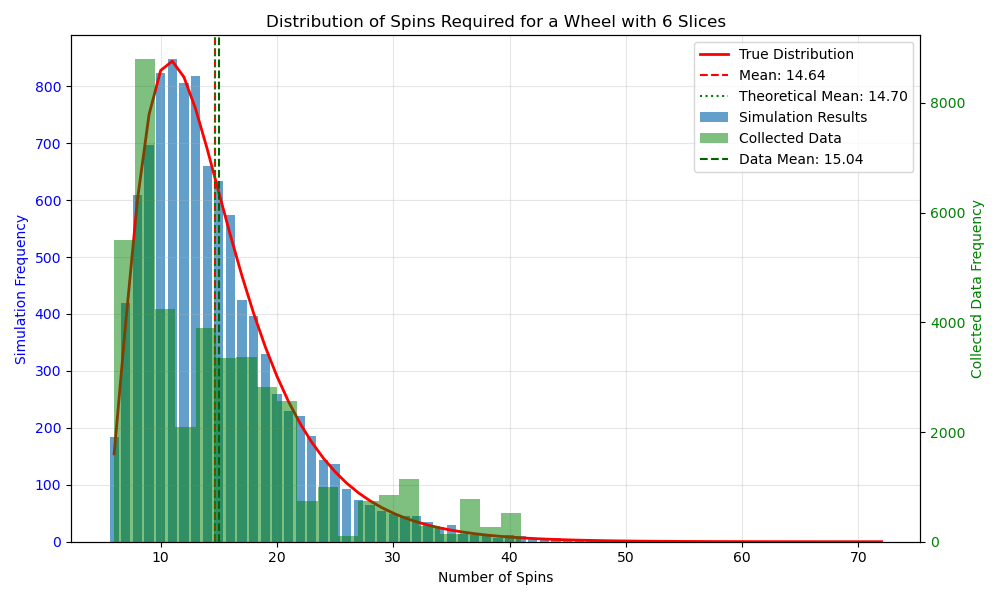
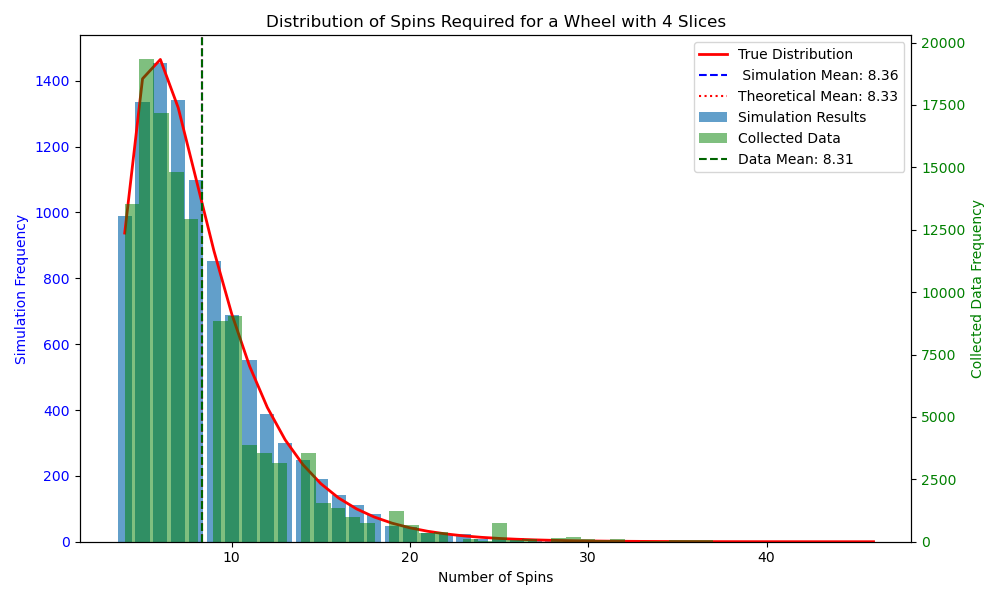
finished figures and incorporated Nikhil's feedback

diff --git a/_posts/2025-03-29-Collecting-Ducks.md b/_posts/2025-03-29-Collecting-Ducks.md
@@ -7,52 +7,68 @@ usemathjax: true
 
 Written by [Alex Cohen](https://www.linkedin.com/in/alexander-e-cohen/) and [Nikki Gupta](https://www.linkedin.com/in/nikhil-z-gupta-703271175/).
 
-One of the iconic parts of APS is the Physical Review journal ducks. 
-During the career fair, APS has a spinning wheel that gives you one of 12 unique ducks, themed after different Physical Review journals.
+One of the iconic parts of the APS Global Physics Summit is the chance to win a *Physical Review* journal duck. 
+At the career fair, APS hosts the duck giveaway, where attendees spin a wheel to win one of 12 unique ducks, each themed after a different *Physical Review* journals.
 
 <p align="center">
   <img src="{{ site.baseurl }}/assets/images/duck_wheel.png" alt="Duck Wheel" width="600"/>
+  <br>
+  <em>Duck wheel (left) and close-up of the best duck (right).</em>
 </p>
 
 On [their instagram page](https://www.instagram.com/aps.physics/reel/DHUmrSKiLde/), APS presented us with a challenge: “Can you collect ‘em all?”. 
-And that is exactly what we sought to do. 
-However, there were so many interesting talks going on at APS, so we couldn’t wait there for hours collecting ducks (or, more practically, that is not why our advisors paid for us to attend this conference). 
-So we needed to know, how long would we expect to need to collect all of the ducks?
+After the thrill of spinning the wheel and winning our very first ducks, that is exactly what we sought to do. 
+Our first instinct was to jump back in line and continue waiting our turn for more spins.
+However, with all the interesting talks going on at the conference (and the fact that our advisors didn't exactly send us there to start a duck collection), we couldn't justify the uncertainty of potentially waiting in line for hours to complete our duck portfolio. 
+So, we needed to know: how long should we expect it to take to collect all of the ducks?
 
-Since we are scientists, we went about solving this problem and collecting data to verify our results. While there are many ways to solve this classic problem (known as the [coupon collector’s problem](https://en.wikipedia.org/wiki/Coupon_collector%27s_problem)), we decided to use a fun method that, while not the simplest method, is general enough to answer many variants of the problem and provides an introduction to many interesting mathematical concepts. 
+<p align="center">
+  <img src="{{ site.baseurl }}/assets/images/nikhil_spinning.png" alt="Nikhil Spinning" width="400"/>
+  <br>
+  <em>Nikhil spinning the wheel, hoping for a new duck to add to his collection.</em>
+</p>
 
-When you are collecting the ducks, there is just one essential thing that you need to keep track of: how many unique ducks have you collected. 
-We will refer to this number as our state: if we are in state N, we have collected N unique ducks. 
-The state we are in after X+1 spins only depends on the state we are in after X spins. In other words, your next state only depends on your current state. 
+Since we are scientists, we went about answering this question methodically, first by developing an analytical model that describes our system and then collecting data to verify our results.
+While there are many ways to solve this classic problem (known as the [coupon collector’s problem](https://en.wikipedia.org/wiki/Coupon_collector%27s_problem)), we decided to use a fun method that, while not the simplest, is general enough to answer many variants of the problem and introduces many interesting mathematical concepts. 
+
+In the pursuit of forming a complete duck set, there is just one essential thing that you need to keep track of: how many unique ducks you have collected. 
+We will refer to this number as our state: if we are in state $N$, we have collected $N$ unique ducks. 
+The state we are in after $X+1$ spins depends only on the state we are in after $X$ spins. In other words, your next state only depends solely on your current state. 
 This type of system is known as a Markov chain.
 
-Let’s start by considering a wheel with only 3 ducks. 
-Before our first spin, we are in state 0, meaning that we have not collected any ducks. 
-At this point, we spin the wheel and are guaranteed to collect a new duck, thus entering state 1. 
-When we spin the wheel next, we have have a $\frac{1}{3}$ chance of remaining in state 1 and a $\frac{2}{3}$ chance of spinning a new duck that we have not collected before, thus entering state 2. Note that there no chance of returning to state 0, as no one will steal our beloved duck from us. Finally, once we enter state 2, we have a $\frac{2}{3}$ chance of remaining in state 2 and a $\frac{1}{3}$ chance of moving to state 3, in which wee have collected all of the ducks and we are finished!
+Let’s start by considering a simplified case: a wheel with only 3 ducks. 
+Before our first spin, we start in state 0, a reflection of our duck-less collection.
+At this point, we spin the wheel and are guaranteed to collect a new duck, moving us into state 1. 
+On the next spin, we have have a $\frac{1}{3}$ chance of remaining in state 1 and a $\frac{2}{3}$ chance of spinning a new duck that we have not collected before, which would enter us into state 2. 
+Note that there is no chance of returning to state 0-no one will steal our beloved duck from us!
+Finally, once we enter state 2, we have a $\frac{2}{3}$ chance of remaining in state 2 and a $\frac{1}{3}$ chance of moving to state 3, in which we have completed our duck collection!
 
 This Markov process can be depicted graphically, where the nodes of the graph represent the state and the directed edges (arrows) of the graph represent the probability of transitioning from one state to another. 
 
-INSERT IMAGE HERE.
+<p align="center">
+  <img src="{{ site.baseurl }}/assets/images/markov_duck_3.png" alt="Markov Duck 3" width="600"/>
+  <br>
+  <em>Markov model of the three duck wheel.</em>
+</p>
 
-Now, to estimate the expected amount of spins needed to collect all of the ducks, we need to estimate the expected number of steps required to move from state 0 in the markov chain to state 3. 
-We will denote the expected number of steps to move from state $i$ to state $j$ in the Markov chain $E(i \rightarrow j)$. 
+Now, to estimate the expected number of spins needed to collect all of the ducks, we need to estimate the expected number of steps required to move from state 0 to state 3 in the Markov chain. 
+We will denote the expected number of steps to move from state $i$ to state $j$ in the Markov chain as $E(i \rightarrow j)$. 
 We note that $E(i \rightarrow i) = 0$ since we don’t need any spins to get to the state we are already in.
 
-As mentioned above, after the first spin, we are guaranteed to be in state 1, from which then we need to get to state 3. 
-We can write this as $E(0 \rightarrow 3) = 1 + E(1 \rightarrow 3)$, leaving us to solve for $E(1 \rightarrow 3)$. 
+As mentioned earlier, after the first spin, we are guaranteed to be in state 1, allowing us to simplify our problem to $E(0 \rightarrow 3) = 1 + E(1 \rightarrow 3)$, leaving us to solve for $E(1 \rightarrow 3)$. 
 
-As discussed above, there is a $\frac{1}{3}$ chance of spinning and remaining in state 1 and a $\frac{2}{3}$ chance of spinning and getting to state 2. 
+Once in state 1, we know that a spin has a $\frac{1}{3}$ chance of keeping us in state 1 and a $\frac{2}{3}$ chance of progressing us to state 2. 
 If we spin and remain in state 1, then our expected number of spins to get to the end will remain $E(1 \rightarrow 3)$. 
-However, if we spin and get to state 2, then our new expected number of spins until collecting all the ducks is $E(2 \rightarrow 3)$. 
+However, if we spin and get to state 2, then our remaining expected number of spins to collect all the ducks becomes $E(2 \rightarrow 3)$. 
 Thus, we can write: 
 
 $$
 E(1 \rightarrow 3) = \frac{1}{3} (1 + E(1 \rightarrow 3)) + \frac{2}{3} (1 + E(2 \rightarrow 3)).
 $$ 
 
-We can rearrange this equation to get $E(1 \rightarrow 3) = 3/2 + E(2 \rightarrow 3)$. 
-This leaves us to solve $E(2 \rightarrow 3)$, from which we can use the same logic to get: 
+We can rearrange this equation to get $E(1 \rightarrow 3) = 3/2 + E(2 \rightarrow 3)$.
+
+By the same logic, we can solve for $E(2 \rightarrow 3)$ using the following equation: 
 
 $$
 E(2 \rightarrow 3) = \frac{2}{3} (1+E(2 \rightarrow 3)) + \frac{1}{3} (1+E(3 \rightarrow 3)),
@@ -60,7 +76,7 @@ $$
 
 which we can once again rearrange to get $E(2 \rightarrow 3) = 3 + E(3 \rightarrow 3)$.
 
-Now, to make things more clear, let us rewrite these equations in reverse order:
+To make things more clear, let us rewrite these equations in reverse order:
 
 $$
 \begin{array}{rcl}
@@ -71,22 +87,25 @@ E(0 \rightarrow 3) &=& 1 + E(1 \rightarrow 3)
 \end{array}
 $$
 
-To solve for $E(0 \rightarrow 3)$, we can plug the result from the first line into the second line, then the result of the second line into the third line, and repeat until we get a value for $E(0 \rightarrow 3)$, which in this case is 5.5. 
-Thus, we should expect to spin the wheel 5 or 6 times to collect the three ducks. 
+Here, it becomes clear we can solve for $E(0 \rightarrow 3)$ recursively, simply by plugging in the result from the line above into the line below repeatedly until we get a value for $E(0 \rightarrow 3)$.
+If we do this process, we find that  is $E(0 \rightarrow 3) = 5.5$, indicating that we should expect to spin the wheel 5 or 6 times to collect all three ducks. 
 
-OK, so this is great, but we are not done, since there are 12 ducks that we need to collect! 
-We could repeat this process for a bigger Markov chain, but that would take a long time. 
-Also, there might be 20 ducks next year, and we definitely don’t want to do this again in a year. 
-So, let’s see if we can spot any patterns and get a general formula for any number of ducks!
+This is great for our simplified wheel case, but in reality there are 12 ducks that we need to collect! 
+We could repeat this process for a bigger Markov chain, but that would become very time-consuming, especially with the anticipated growth of the *Physical Review* duck community in the coming years.
+So, let’s see if we can spot any patterns and derive a general formula for any number of ducks!
 
 To generalize, let’s say that there are $N$ ducks. 
 Once again, we are guaranteed to get a new duck on the first spin. 
-Now, on the second spin, there is a $\frac{1}{N}$ chance of spinning the duck you already have, thus remaining in state 1, and a $\frac{N-1}{N}$ chance of spinning a new duck and moving to state 2. 
-Similarly, once you get two ducks, when you spin next, there is a $\frac{2}{N}$ chance of getting one of the two ducks you already have and a $\frac{N-2}{N}$ chance of getting a new duck and thus moving to state 3. 
+Now, on the second spin, there is a $\frac{1}{N}$ chance of landing on the same duck you already have, thus remaining in state 1, and a $\frac{N-1}{N}$ chance of spinning a new duck and moving to state 2. 
+Similarly, once you get two ducks, when you spin next, there is a $\frac{2}{N}$ chance of getting one of the two ducks you already have and a $\frac{N-2}{N}$ chance of getting a new duck to move to state 3. 
 This pattern keeps repeating itself, until we have collected every duck except one. 
 At this point, we are in state $N-1$, and, on the next spin, there will be a $\frac{N-1}{N}$ chance of spinning a duck we already have and a $\frac{1}{N}$ chance of spinning the final duck that we don’t have yet. Once again, this process can be graphically visualized as a Markov chain.
 
-INSERT IMAGE HERE
+<p align="center">
+  <img src="{{ site.baseurl }}/assets/images/markov_duck_N.png" alt="Markov Duck 3" width="600"/>
+  <br>
+  <em>Markov model of the N duck wheel.</em>
+</p>
 
 Now, using the same logic that we used for the 3 duck case, we see that 
 
@@ -132,20 +151,27 @@ In fact, the series $1 + \frac{1}{2} + \frac{1}{3} + ... + \frac{1}{N-1} + \frac
 After determining that each spin takes about 20 seconds, and that the line is usually 15 people long, each of use could spin the wheel once every 5 minutes. 
 Therefore, for each of use to collect every duck, it would take a little over 3 hours! 
 
-While we didn't have 3 hours, we still wanted to run an experiment to see all this math manifested in the real world.
-So we stood nearby the spinning wheel and recorded all of the ducks that were spun over the course of 67 consecutive spins.
-While the wheel has 12 different ducks, we can form 6 groups by pairing up ducks to get better statistics.
-For N=6, the expected number of spins is 14.7.
-By assigning the ducks to every possible combination of 6 groups and computing the average number of spins to collect a duck in all 6 groups, we get 15.04 (a minimum of 6 and maximum of 41), which closely matches the analytical result!
+While we didn't have 3 hours to spare, we still wanted to run an experiment to see all this math manifested itself as expected in the real world.
+To do this, we stood nearby the spinning wheel and recorded all the ducks that were spun over the course of 67 consecutive spins.
+Although the wheel has 12 different ducks, we can group the ducks into 4 groups to get better statistics.
+For $N=4$, the expected number of spins is 8.33.
+By considering every possible way to form these 4 groups and recording the observed number of spins it took to collect all the duck pairs for each combination, we measured that it took an average of 8.31 spins to collect a duck from all 4 groups.
+Even for this small experimental sample size, this closely matches the analytical result for $N=4$!
 
-In addition, we can also run computer simulations of this process. 
-In the plot below, I show the results of the data collection, the computer simulation, and the analytical results.
+To get a better idea of how this converges to the analytical result for larger data sets, we can also run computer simulations of this process. 
+In the plot below, I show the data collection results, the computer simulation results, and the analytical results.
 
 <p align="center">
   <img src="{{ site.baseurl }}/assets/images/analysis.png" alt="Analysis" width="600"/>
 </p>
 
-CONCLUSION.
+In conclusion, our mathematical journey through the duck collection problem (classicaly known as the coupon collector's problem) revealed that collecting all 12 ducks would require approximately 37 spins on average—equivalent to about 3 hours of dedicated duck hunting at the conference.
+While we couldn't justify spending that much time away from the fascinating physics talks, our experiment with grouping the ducks and our computer simulations validated our analytical approach.
+
+This playful exploration demonstrates how mathematical modeling can help us make informed decisions, even for something as whimsical as collecting conference memorabilia. 
+Similar probability problems that can be tackled with this Markov modeling approach appear in many contexts in daily life beyond duck collecting and we hope this post provides you with a new way of thinking when you find yourself in a related scenario.
+
+So, can you collect 'em all? Mathematically speaking, yes—but it might take longer than your conference schedule allows! 
 
 <!-- Add MathJax at the end of the post -->
 <script type="text/javascript">
